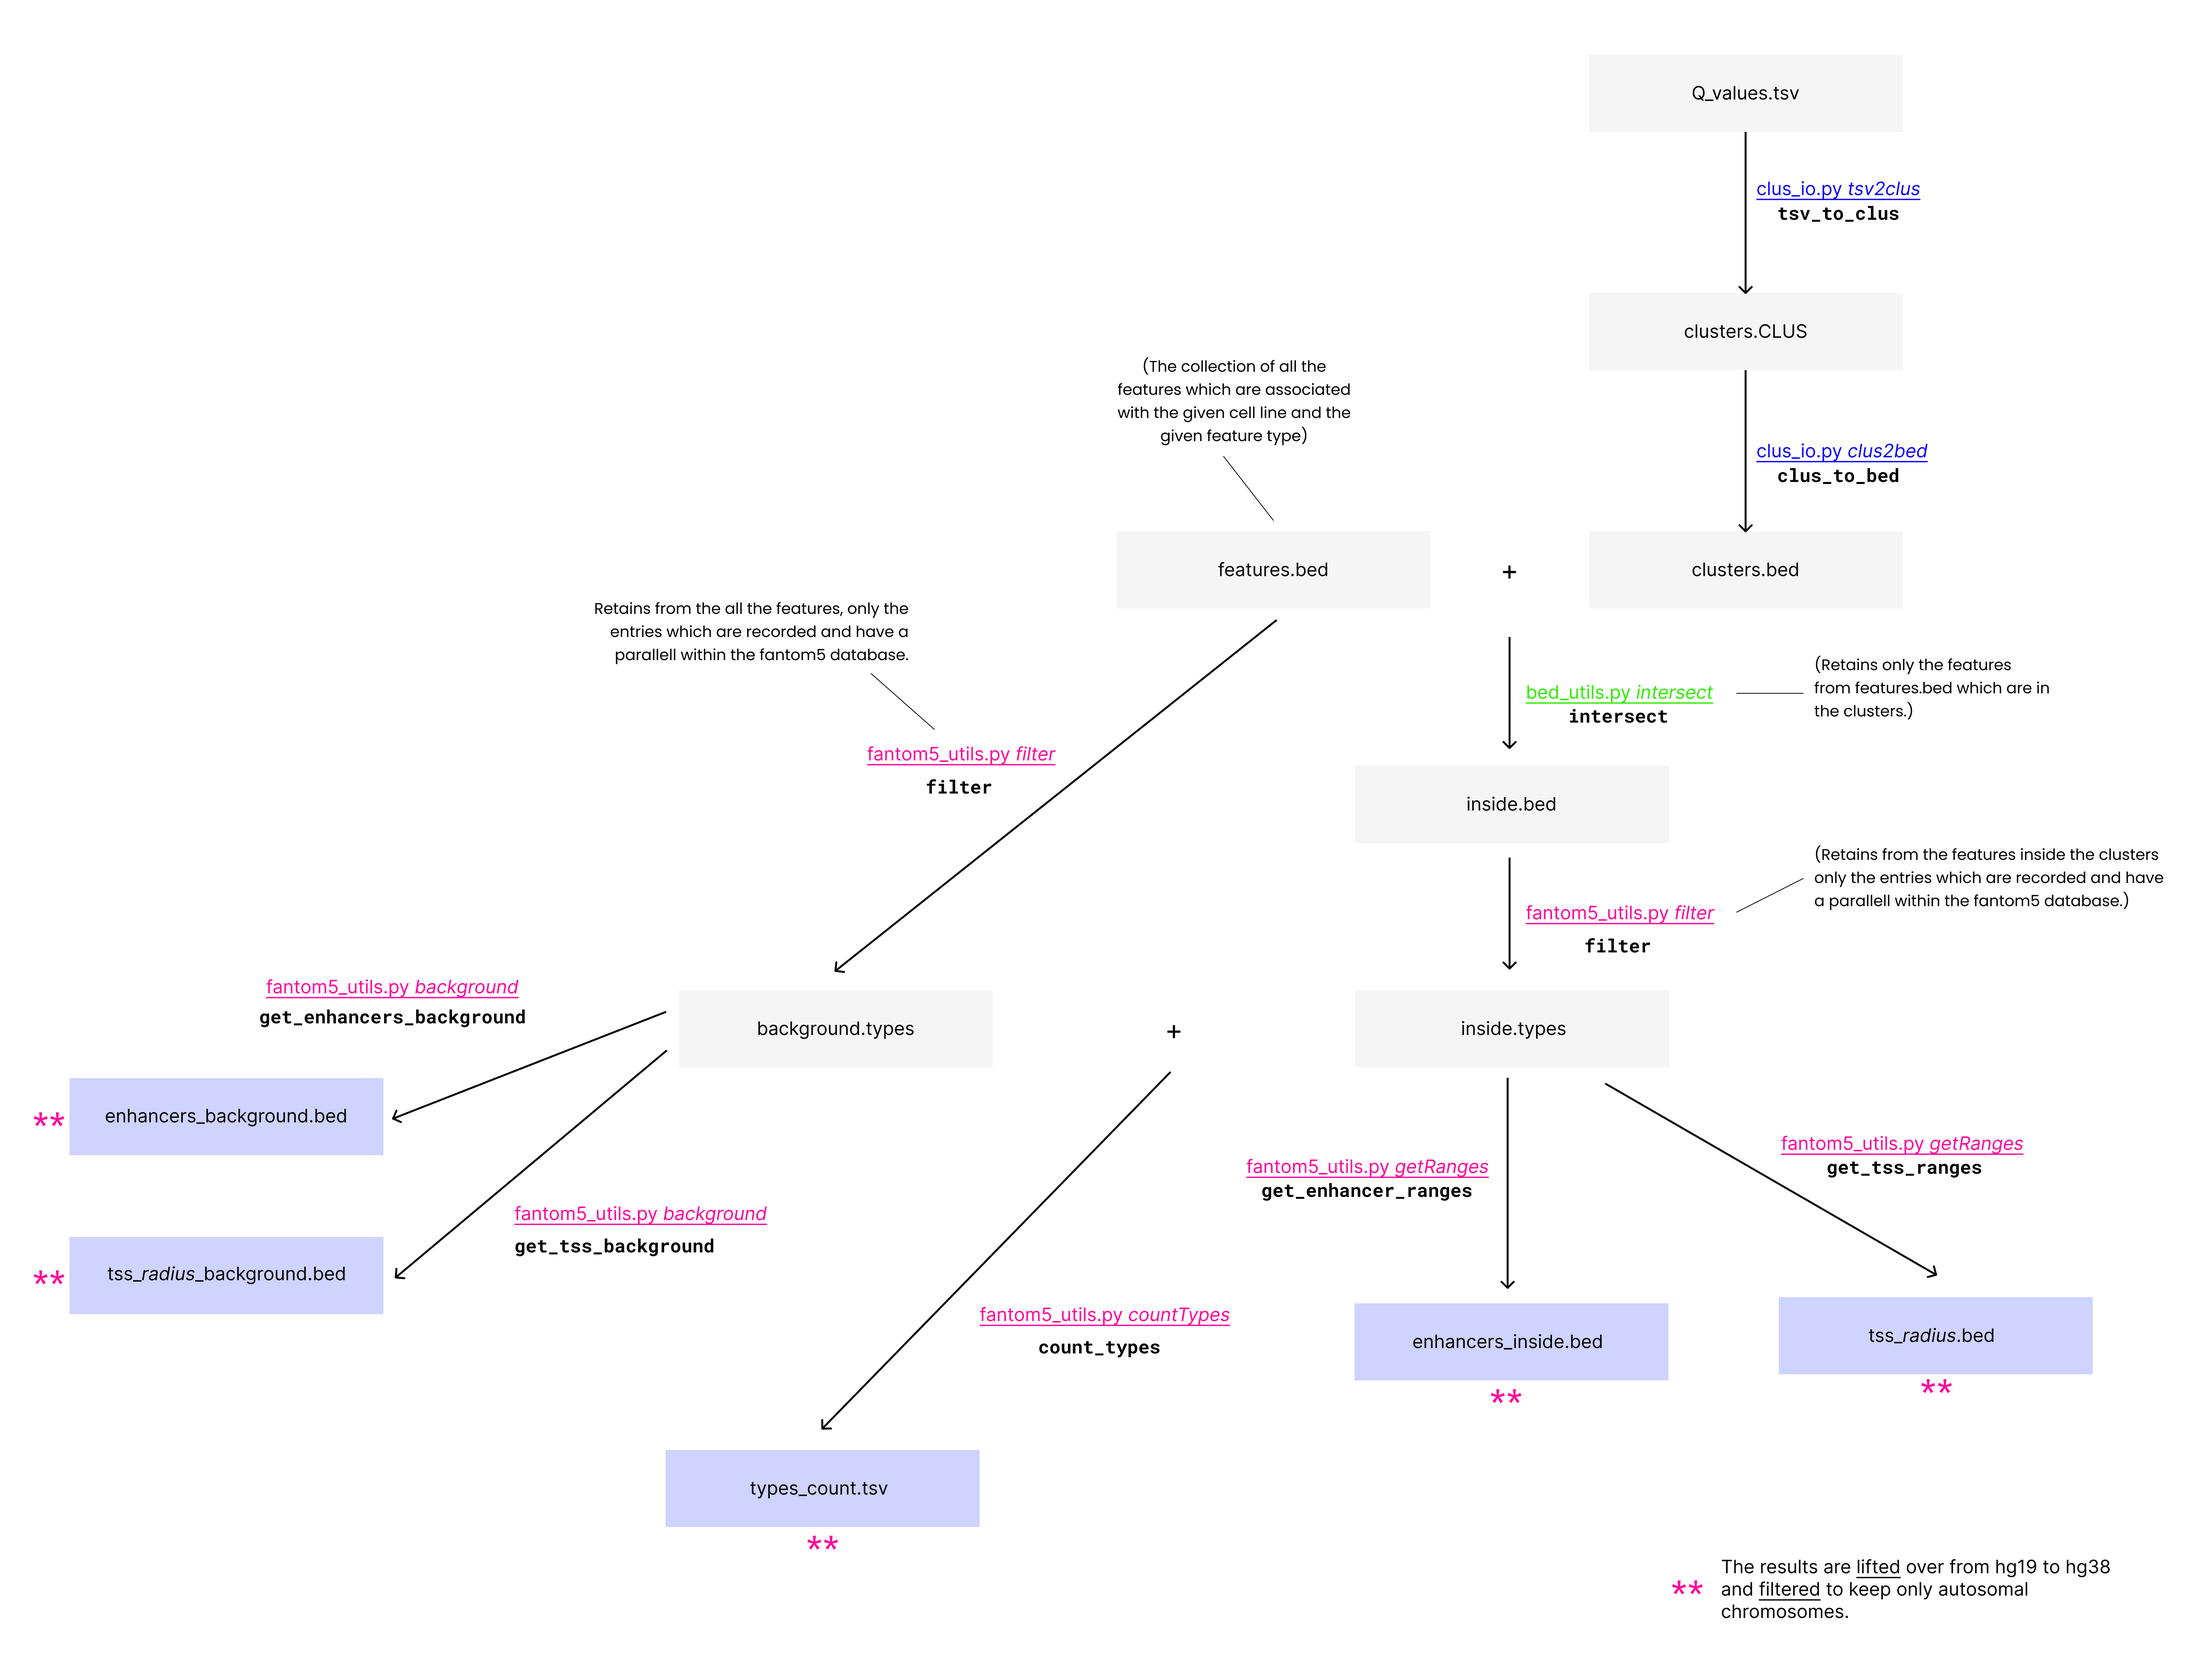
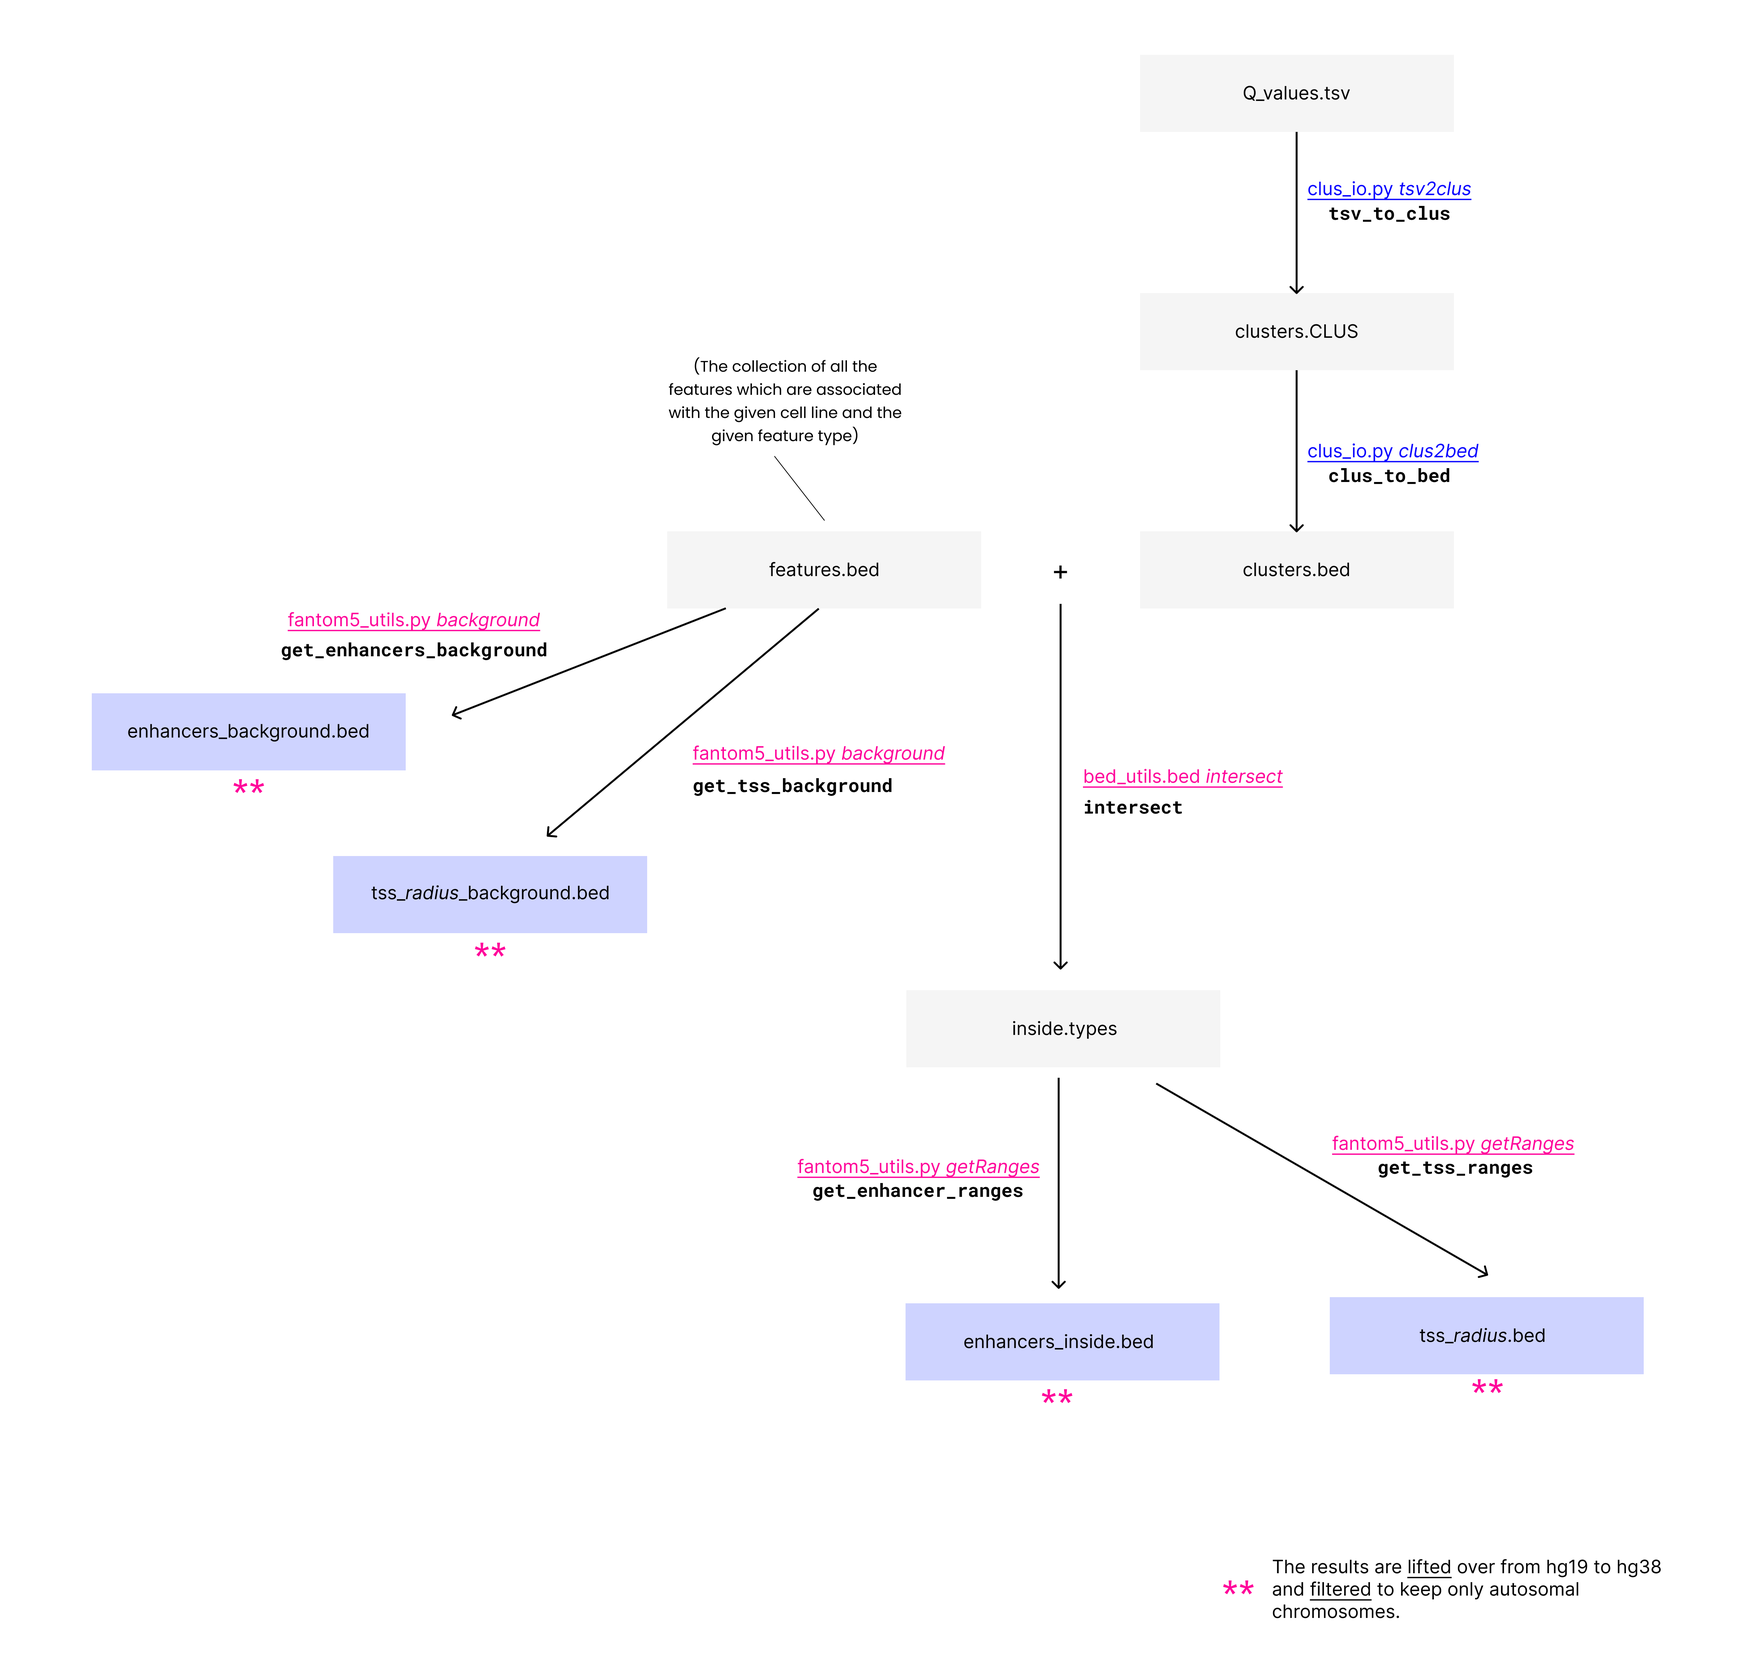
Fixed GSEA and Unibind Enrichment Pipeline

diff --git a/analysis/fantom5_utils.py b/analysis/fantom5_utils.py
@@ -45,39 +45,15 @@ if __name__ == "__main__":
 
     match argv:
         
-        case [_, "filter", source_bed_path, fantom_5_path, *args]:
-            # read the peak type as a dict.
-            peak_types = parse_fantom_peak_type_data(fantom_5_path)
-            
-            out_file_path = args[0] if len(args) > 0 else replace_extension(source_bed_path, "fantom5.types")
-            
-            with open(source_bed_path, "r") as source_bed_file, open(out_file_path, "w") as out_file:
-                
-                # Looping over the lines
-                for i, line in enumerate(source_bed_file.readlines()):
-                    
-                    # skip headers
-                    if line.startswith("#"):
-                        continue
-                
-                    # split the line and get the peak name.
-                    try:
-                        peak_name = line.split("\t")[3].strip()
-                    except IndexError:
-                        print("Error: line {} is not in the expected format.".format(i))
-                        print(source_bed_path)
-                    peak_type = peak_types.get(peak_name, None)
-                    if peak_type is None:
-                        print(peak_name)
-                        continue
+        # Gets the ranges in the provided [source_bed_path] which are of the asked type (tss or enhancer)
+        # And writes the filtered one to output path
+        case [_, "getRanges", "enhancer" | "tss"  as peak_type, source_bed_path, fantom_5_peak_types_path, out_path, *args]:
 
-                    out_file.write(f"{peak_name}\t{peak_types[peak_name]}\n")
+            #Parse the fantom peak type data
+            peak_types = parse_fantom_peak_type_data(fantom_5_peak_types_path)
 
-            print(green("Successfully filtered the peaks and wrote to:" +  out_file_path))
-
-
-        case [_, "getRanges", "enhancer" | "tss" as peak_type, source_types_path, out_path, *args]:
-
+            # ask for a radius if the user required the TSS.
+            tss_radius = None
             if peak_type == "tss":
                 if len(args) == 0:
                     print(red("Please provide a radius for the TSS extraction!"))
@@ -85,31 +61,47 @@ if __name__ == "__main__":
                 else:
                     tss_radius = int(args[0])
             
+            # Diagnostics:
+            not_in_fantom_5 = 0
             count = 0
-            
-            with open(source_types_path, "r") as source_types_file, open(out_path, "w") as out_file:
-                for i, line in enumerate(source_types_file.readlines()):
+            with open(source_bed_path, "r") as source_bed, open(out_path, "w") as out_file:
+                for i, line in enumerate(source_bed.readlines()):
+                    
+                    # Skip header
                     if line.startswith("#"):
                         continue
                     
-                    peak_name, pt = line.split("\t")
-                    peak_name = peak_name.strip()
-                    pt = pt.strip()
+                    # read the bed line
+                    chromo, start, end, id_, *rest = line.split("\t")
+                    chromo = chromo.strip()
+                    start = int(start)
+                    end = int(end)
 
-                    if peak_type != pt:
+                    # Extract the id of the peak
+                    id_ = id_.strip()
+
+                    # Get the peak type
+                    this_peak_type = peak_types.get(id_, None)
+
+                    # If the peak type is not in the fantom 5 peak types, skip it
+                    if this_peak_type is None:
+                        not_in_fantom_5 += 1
                         continue
 
-                    chromo, start, end = extract_ranges_from_name(peak_name)
-                    
+                    # now check that the peak is of the requested type.
+                    if this_peak_type != peak_type:
+                        continue
+
                     if peak_type == "tss":
                         start = start - tss_radius
                         end = end + tss_radius
-
-                    out_file.write(f"{chromo}\t{start}\t{end}\n")
+                    
+                    # Write the line to the output file
+                    out_file.write("{}\t{}\t{}\t{}\n".format(chromo, start, end, id_))
                     count += 1
 
             
-            print(green(f"Successfully extracted {count} ranges to: " +  out_path))
+            print(f"Successfully extracted {green(count)} ranges to: " +  out_path  + " with {} peaks not mapped in fantom 5".format(red(not_in_fantom_5)))
 
         case [_, "countTypes", source_types_path, *args]:
             file = open(source_types_path, "r")
@@ -131,11 +123,11 @@ if __name__ == "__main__":
                 
             print(f"Enhancers: {blue(enhancer_count)}, TSS: {green(tss_count)}")
 
-        case [_, "getEntrez", source_types_path, peak_to_entrez_path, out_path]:
+        # Saves a list of the entrez ids of the peaks in the provided [source_bed_path]
+        case [_, "getEntrez", source_bed_path, peak_to_entrez_path, out_path]:
+        
             
-            # Read the peak file
-            peak_file = open(source_types_path, "r")
-            
+
             # the resulting ids
             ids = []
 
@@ -148,32 +140,35 @@ if __name__ == "__main__":
             nas = 0
             
             # loop over the lines of the file (they are in a type-like format (CAGE.ID, peak_type)))
-            for line in peak_file.readlines():
-                # skip headers
-                if line.startswith("#"):
-                    continue
+            with open(source_bed_path, "r") as source_bed:
                     
-                # split the line and get the peak name.
-                peak_name, pt = line.split("\t")
-                peak_name = peak_name.strip()
+                for line in source_bed.readlines():
 
-                # get the entrez id for the peak name
-                entrez_id = peaks_to_entrez.get(peak_name, None)
-                if entrez_id is None:
-                    unmapped += 1
-                    continue
+                    # skip headers
+                    if line.startswith("#"):
+                        continue
+                        
+                    # split the line
+                    chromo, start, end, peak_id, *rest = line.split("\t")
+                    peak_id = peak_id.strip()
+                    
+                    # get the entrez id for the peak name
+                    entrez_id = peaks_to_entrez.get(peak_id, None)
+                    
+                    if entrez_id is None:
+                        unmapped += 1
+                        continue
 
-                elif entrez_id == "NA":
-                    nas += 1
-                    continue
+                    elif entrez_id == "NA":
+                        nas += 1
+                        continue
 
-                # add the entrez id to the list
-                ids.append(entrez_id)
-                mapped += 1
+                    # add the entrez id to the list
+                    ids.append(entrez_id)
+                    mapped += 1
 
             # Remove the duplicates
             ids = list(set(ids))
-
 
             # write the ids to a file
             with open(out_path, "w") as out_file:
@@ -182,44 +177,29 @@ if __name__ == "__main__":
 
 
             # Print some diagnostics
-            print(f"Mapping Finished: Mapped: {green(mapped)}, Unmapped: {red(unmapped)}, NA: {yellow(nas)}")
-
-            # print that the file was written
-            print(green(f"Successfully wrote the entrez ids to: " +  out_path))
-
-        case [_, "background", "enhancer" | "tss" | "all" as peak_type, source_types_path, out_path, *args]:
+            print(f"Mapping Finished: Mapped: {green(mapped)}, Unmapped: {red(unmapped)}, NA: {yellow(nas)}, file saved to {out_path}")
+       
+        case [_, "fullBackground", "enhancer" | "tss" as peak_type, fantom_5_peak_types_path, out_path, ]:
             
-            file = open(source_types_path, "r")
-            out_file = open(out_path, "w")
-
-            if peak_type == "tss":
-                if len(args) == 0:
-                    print(red("Please provide a radius for the TSS extraction!"))
-                    exit(1)
-                else:
-                    tss_radius = int(args[0])
-            
-
-            with open(source_types_path, "r") as source_types_file, open(out_path, "w") as out_file:
-                for i, line in enumerate(source_types_file.readlines()):
+            with open(fantom_5_peak_types_path, "r") as fantom_5_peaks, open(out_path, "w") as out_file:
+                for i, line in enumerate(fantom_5_peaks.readlines()):
                     if line.startswith("#"):
                         continue
-                    
+
                     peak_name,  pt = line.split("\t")
                     peak_name = peak_name.strip()
                     pt = pt.strip()
 
-                    if peak_type != "all" and peak_type != pt:
+                    # Get only the required peak types
+                    if peak_type != pt:
                         continue
                     
-
+                    # Get the chromo, start and end
                     chromo, start, end = extract_ranges_from_name(peak_name)
 
-                    if peak_type == "tss":
-                        start = start - tss_radius
-                        end = end + tss_radius
+                    # Write the line to the file
+                    out_file.write(f"{chromo}\t{start}\t{end}\t{peak_name}\n")
 
-                    out_file.write(f"{chromo}\t{start}\t{end}\n")
 
         case [_, "typesTable", foreground_types_path, background_types_path, out_path]:
             foreground_types = count_peak_types(foreground_types_path)

diff --git a/analysis/gsea.py b/analysis/gsea.py
@@ -65,11 +65,22 @@ if __name__ == "__main__":
                 # Adding the value
                 enrichment[set_name] = (p_value, odds_ratio, hits_in_sample)
 
-            with open(output_path, "w") as f:
-                # Add an header
-                f.write("Set\tp-value\todds-ratio\tsample\n")
-                for name, (p_value, odds_ratio, hits_in_sample) in sorted(enrichment.items(), key=lambda x: x[1][0]):
-                    f.write("{}\t{}\t{}\t{}\n".format(name, p_value, odds_ratio, hits_in_sample))
+
+            # apply FDR correction
+            print("Applying FDR correction...")
+            enrichment = {set_name: (p_value, odds_ratio, hits_in_sample) for set_name, (p_value, odds_ratio, hits_in_sample) in enrichment.items()}
+                        
+            # Convert to a dataframe
+            import pandas as pd
+            enrichment = pd.DataFrame.from_dict(enrichment, orient="index")
+            enrichment.columns = ["p_value", "odds_ratio", "hits_in_sample"]
+            enrichment.sort_values(by="p_value", inplace=True)
+            import statsmodels.stats.multitest as sm
+            pvalues = enrichment["p_value"]
+            corrected_pvalues = sm.multipletests(pvalues, method="fdr_bh")[1]
+            enrichment["q_value"] = corrected_pvalues
+            enrichment.sort_values(by="q_value", inplace=True)
+            enrichment.to_csv(output_path, sep="\t", index=True, header=True)
 
             print(green("Saved to {}".format(output_path)))
 

diff --git a/unibind_enrichment/readme.md b/unibind_enrichment/readme.md
@@ -1,6 +1,7 @@
-# Unibind enrichment
-This pipeline provides a way to generate the files necessary to perform Transcription Factor Binding Site enrichment analysis using the [Unibind Enrichment Tool ](https://unibind.uio.no/enrichment/).
+# Unibind Enrichment Pipeline:
+This pipeline creates the necessary files to run the enrichment analysis using Unibind Enrichment tool (https://unibind.uio.no/enrichment/). It creates 3 files for each cell line:
+- Foreground (The reads inside the given trascriptional hubs (enriched clusters) which belong to enhancer regions)
+- Active (All the enhancer reads in the given cell line)
+- Full (All the enhancer reads in the FANTOM5 data)
 
-It takes as an input...
-
-And outputs 3 files, one containing mapping to enhancer (in the FANTOM5 database) which are contained inside putative transcriptional Hubs and the other containing all the enhancer active in the cell line, that is all the enhancers which map to a peak in the FANTOM5 database. 
+(The TSS pipeliene is not enabled right now)
